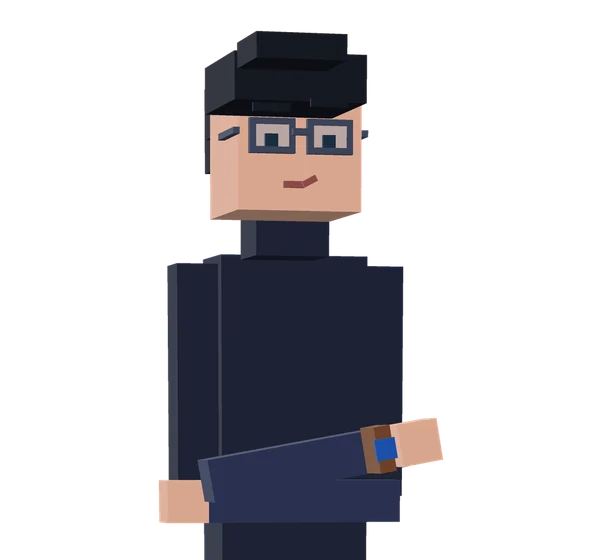
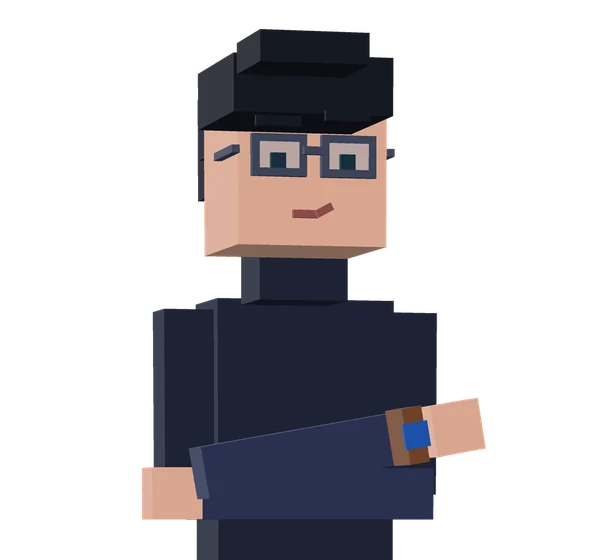
fix: hero 3D model measured to the photo's height; Off the clock subtitle as written
- Re-rendered at 7.47px/unit: silhouette top 43, bottom 871, turtleneck at 402, head centre x 469 - all equal
  to the photo; crossed arms raised to the photo's crossing height (~640-760)
- "Games, Cofffee, and Binge-watching" exactly as requested

Changed region(s): [[0.21, 0.0304, 0.81, 1.0], [0.39, 0.9107, 0.45, 0.9411]]

diff --git a/index.html b/index.html
@@ -403,7 +403,7 @@
             <h2 class="cond sec-title">Off the clock</h2>
             <div class="sec-meta" data-reveal style="--i:1">
               <p class="hud-label">Beyond the Nerd Stuffs</p>
-              <p class="sec-sub">Games, Coffee, and Binge-watching</p>
+              <p class="sec-sub">Games, Cofffee, and Binge-watching</p>
             </div>
           </div>
           <div class="hud offclock" data-reveal>

diff --git a/README.md b/README.md
@@ -18,7 +18,8 @@ Static portfolio: HTML, CSS and vanilla JS ES modules with a raw WebGL hero. No 
 ## Calibrating the hero portrait
 
 The second layer (`hero-alt-*.webp`) is a still render of the 3D figure in the photo's pose (arms crossed),
-framed like `hero-photo-*.webp`: hair top at y=48 and the head about as wide, in the same 933x871 frame.
+framed like `hero-photo-*.webp` in the same 933x871 frame. Measured on both: silhouette top y=43, bottom y=871,
+turtleneck starts at y=402 (hair-to-collar height 359px), head centred at x=469, crossed arms around y=640-760.
 
 If the photo and 3D model layers don't line up, change the `photoOffset` default of `mountPortraitReveal()`
 in `src/js/portrait-reveal.js` and keep it equal to
